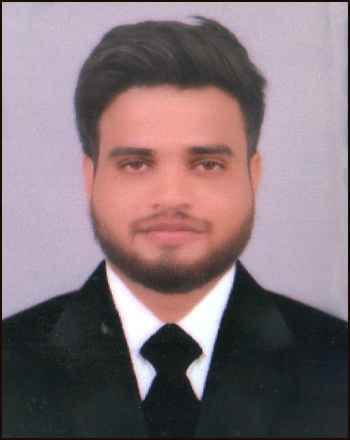
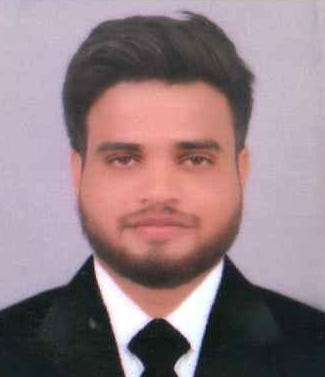
added new photos

diff --git a/about.html b/about.html
@@ -135,29 +135,29 @@
                     <p>Family Law Expert</p>
                 </div>
                 <div class="member">
-                    <img src="images/team1.webp" alt="Advocate Himanshu Yadav Criminal Law Specialist" class="responsive-img">
+                    <img src="images/atul.jpeg" alt="Advocate Himanshu Yadav Criminal Law Specialist" class="responsive-img">
                     <h3>Advocate Atul Vyas</h3>
-                    <p>Criminal Law Specialist</p>
+                    <p>4+ Years of experience</p>
                 </div>
                 <div class="member">
                     <img src="images/pradeep.jpeg" alt="Advocate Himanshu Yadav Criminal Law Specialist" class="responsive-img">
                     <h3>Advocate Pradeep Kumar</h3>
-                    <p>Criminal Law Specialist</p>
+                    <p>4+ Years of experience</p>
                 </div>
                 <div class="member">
-                    <img src="images/team2.webp" alt="Advocate Himanshu Yadav Criminal Law Specialist" class="responsive-img">
+                    <img src="images/pankaj.jpeg" alt="Advocate Himanshu Yadav Criminal Law Specialist" class="responsive-img">
                     <h3>Advocate Pankaj Kumari</h3>
-                    <p>Criminal Law Specialist</p>
+                    <p>5+ Years of experience</p>
                 </div>
                 <div class="member">
                     <img src="images/jitendra.jpeg" alt="Advocate Himanshu Yadav Criminal Law Specialist" class="responsive-img">
-                    <h3>Advocate Jitendra Kumar</h3>
-                    <p>Criminal Law Specialist</p>
+                    <h3>Advocate Jitendra Mohan Varshney</h3>
+                    <p>4+ Years of experience</p>
                 </div>
                 <div class="member">
-                    <img src="images/team1.webp" alt="Advocate Himanshu Yadav Criminal Law Specialist" class="responsive-img">
+                    <img src="images/vijay.jpeg" alt="Advocate Himanshu Yadav Criminal Law Specialist" class="responsive-img">
                     <h3>Advocate Vijay Kumar</h3>
-                    <p>Criminal Law Specialist</p>
+                    <p>25+ Years of experience</p>
                 </div>
                 <div class="member">
                     <img src="images/team1.webp" alt="Advocate Himanshu Yadav Criminal Law Specialist" class="responsive-img">
